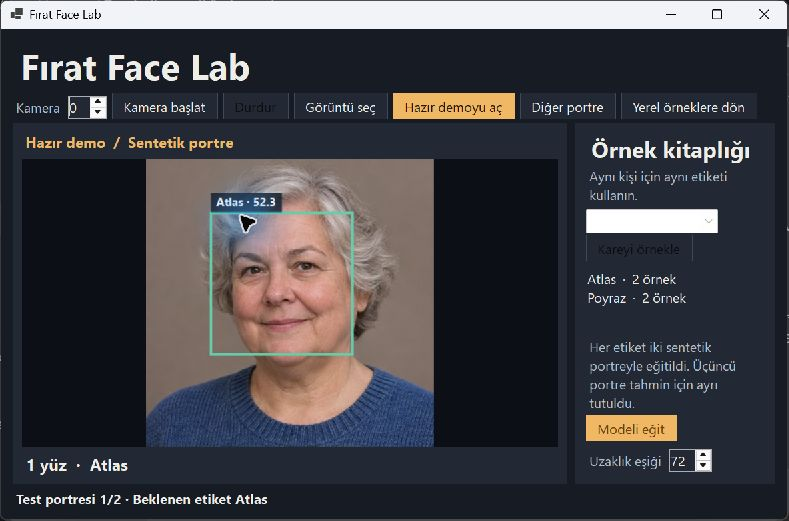
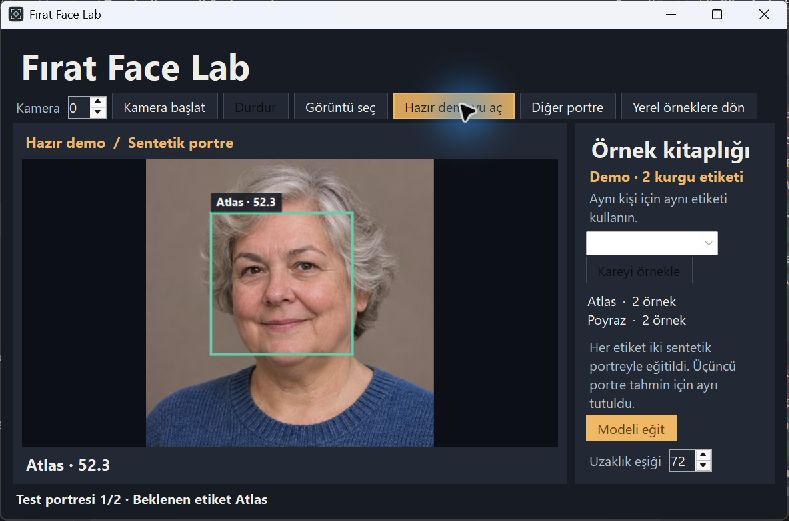
docs: iki sentetik etiketle demo ve modları göster

diff --git a/README.md b/README.md
@@ -25,6 +25,8 @@ dotnet run -c Release
 3. Toplam iki örnekle **Modeli eğit** etkinleşir. İki farklı etiket sınıflandırma, tek etiket altında iki kare ise tek kişi eşleşme denemesi sağlar. Her sınıf için farklı açı ve aydınlatmada en az üç kare önerilir.
 4. Yeni bir fotoğraf veya karede tahmin edilen etiketi okuyun. LBPH **uzaklığı** düştükçe eşleşme artar. Eşiği aşan tahmin **Bilinmiyor** olarak gösterilir.
 
+Örnek kitaplığında geçerli mod belirtilir. Algılama, tek kişinin örnekleriyle eşleşme ve birden fazla etiketle tanıma farklı durumlardır. Sonuç satırında ilk üç tespit için etiket ve varsa uzaklık bulunur.
+
 Yüz örnekleri `%LOCALAPPDATA%\YMH219-FaceRecognition\training` altında saklanır. Kamera video kaydı yapılmaz. Kullanıcının izni olan örnekleri yerel tutun. Eğitilen model oturum belleğindedir ve uygulama yeniden açıldığında yerel örneklerle tekrar eğitilebilir.
 
 ## Teknoloji ve sınıflar
